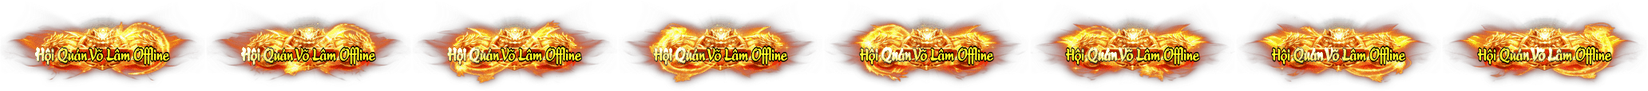
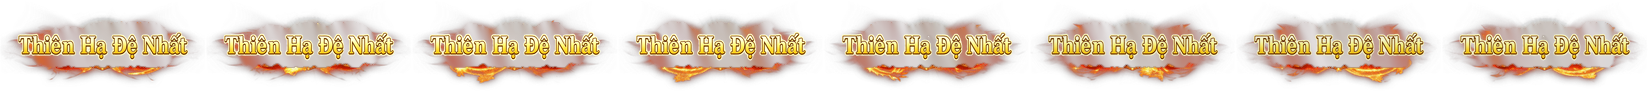
Đổi chữ danh hiệu động thành Thiên Hạ Đệ Nhất.

diff --git a/index.html b/index.html
@@ -9,10 +9,10 @@
 <link rel="manifest" href="manifest.json">
 <title>NamQuoc Idle</title>
 <link rel="stylesheet" href="fonts/ibm-plex-mono.css">
-<link rel="stylesheet" href="style.css?v=251">
-<link rel="stylesheet" href="jx1ui.css?v=251">
-<link rel="stylesheet" href="jx1ui2.css?v=251">
-<link rel="stylesheet" href="ui20.css?v=251">
+<link rel="stylesheet" href="style.css?v=252">
+<link rel="stylesheet" href="jx1ui.css?v=252">
+<link rel="stylesheet" href="jx1ui2.css?v=252">
+<link rel="stylesheet" href="ui20.css?v=252">
 </head>
 <body>
 <div id="bootLoad" aria-live="polite">
@@ -88,69 +88,69 @@
   <div id="modal" class="hidden" role="dialog" aria-modal="true"><div class="mbox" tabindex="-1"><button class="mx" id="mClose">✕</button><div id="mBody"></div></div></div>
   <div id="toast" role="status" aria-live="polite"></div>
 </div>
-<script src="data.js?v=251"></script>
-<script src="setvi.js?v=251"></script>
-<script src="setfix.js?v=251"></script>
-<script src="world.js?v=251"></script>
-<script src="zones2.js?v=251"></script>
-<script src="js/som_hoason_data.js?v=251"></script>
-<script src="js/som_hoason.js?v=251"></script>
-<script src="sound.js?v=251"></script>
-<script src="fx.js?v=251"></script>
-<script src="jmo.js?v=251"></script>
-<script src="jmo2.js?v=251"></script>
-<script src="js/core.js?v=251"></script>
-<script src="js/mapobs.js?v=251"></script>
-<script src="js/stats.js?v=251"></script>
-<script src="js/vocong.js?v=251"></script>
-<script src="js/skillsys.js?v=251"></script>
-<script src="js/kytran.js?v=251"></script>
-<script src="js/loot.js?v=251"></script>
-<script src="rdata.js?v=251"></script>
-<script src="js/sets.js?v=251"></script>
-<script src="js/recipes.js?v=251"></script>
-<script src="js/combat.js?v=251"></script>
-<script src="js/field.js?v=251"></script>
-<script src="js/ride.js?v=251"></script>
-<script src="js/save.js?v=251"></script>
-<script src="js/render.js?v=251"></script>
-<script src="js/som_anim.js?v=251"></script>
-<script src="js/jxmis.js?v=251"></script>
-<script src="jxstate.js?v=251"></script>
-<script src="fx2.js?v=251"></script>
-<script src="fx3.js?v=251"></script>
-<script src="js/skillfx.js?v=251"></script>
-<script src="js/look.js?v=251"></script>
-<script src="js/jxparts.js?v=251"></script>
-<script src="js/audio.js?v=251"></script>
-<script src="js/ui.js?v=251"></script>
-<script src="js/control.js?v=251"></script>
-<script src="js/shop.js?v=251"></script>
-<script src="js/potsel.js?v=251"></script>
-<script src="js/rewards.js?v=251"></script>
-<script src="js/title.js?v=251"></script>
-<script src="js/records.js?v=251"></script>
-<script src="js/horse.js?v=251"></script>
-<script src="js/thanma.js?v=251"></script>
-<script src="js/dungeon.js?v=251"></script>
-<script src="js/giangho.js?v=251"></script>
-<script src="js/forge.js?v=251"></script>
-<script src="js/epdo.js?v=251"></script>
-<script src="js/thuyen.js?v=251"></script>
-<script src="js/mode.js?v=251"></script>
-<script src="js/tabs2.js?v=251"></script>
-<script src="js/auto.js?v=251"></script>
-<script src="js/guide.js?v=251"></script>
-<script src="js/stash.js?v=251"></script>
-<script src="js/donkho.js?v=251"></script>
-<script src="js/name.js?v=251"></script>
-<script src="js/chatcfg.js?v=251"></script>
-<script src="js/chat.js?v=251"></script>
-<script src="js/net.js?v=251"></script>
-<script src="js/mp.js?v=251"></script>
-<script src="js/ui20.js?v=251"></script>
-<script src="js/ui20win.js?v=251"></script>
-<script src="js/admin.js?v=251"></script>
-<script src="js/main.js?v=251"></script>
+<script src="data.js?v=252"></script>
+<script src="setvi.js?v=252"></script>
+<script src="setfix.js?v=252"></script>
+<script src="world.js?v=252"></script>
+<script src="zones2.js?v=252"></script>
+<script src="js/som_hoason_data.js?v=252"></script>
+<script src="js/som_hoason.js?v=252"></script>
+<script src="sound.js?v=252"></script>
+<script src="fx.js?v=252"></script>
+<script src="jmo.js?v=252"></script>
+<script src="jmo2.js?v=252"></script>
+<script src="js/core.js?v=252"></script>
+<script src="js/mapobs.js?v=252"></script>
+<script src="js/stats.js?v=252"></script>
+<script src="js/vocong.js?v=252"></script>
+<script src="js/skillsys.js?v=252"></script>
+<script src="js/kytran.js?v=252"></script>
+<script src="js/loot.js?v=252"></script>
+<script src="rdata.js?v=252"></script>
+<script src="js/sets.js?v=252"></script>
+<script src="js/recipes.js?v=252"></script>
+<script src="js/combat.js?v=252"></script>
+<script src="js/field.js?v=252"></script>
+<script src="js/ride.js?v=252"></script>
+<script src="js/save.js?v=252"></script>
+<script src="js/render.js?v=252"></script>
+<script src="js/som_anim.js?v=252"></script>
+<script src="js/jxmis.js?v=252"></script>
+<script src="jxstate.js?v=252"></script>
+<script src="fx2.js?v=252"></script>
+<script src="fx3.js?v=252"></script>
+<script src="js/skillfx.js?v=252"></script>
+<script src="js/look.js?v=252"></script>
+<script src="js/jxparts.js?v=252"></script>
+<script src="js/audio.js?v=252"></script>
+<script src="js/ui.js?v=252"></script>
+<script src="js/control.js?v=252"></script>
+<script src="js/shop.js?v=252"></script>
+<script src="js/potsel.js?v=252"></script>
+<script src="js/rewards.js?v=252"></script>
+<script src="js/title.js?v=252"></script>
+<script src="js/records.js?v=252"></script>
+<script src="js/horse.js?v=252"></script>
+<script src="js/thanma.js?v=252"></script>
+<script src="js/dungeon.js?v=252"></script>
+<script src="js/giangho.js?v=252"></script>
+<script src="js/forge.js?v=252"></script>
+<script src="js/epdo.js?v=252"></script>
+<script src="js/thuyen.js?v=252"></script>
+<script src="js/mode.js?v=252"></script>
+<script src="js/tabs2.js?v=252"></script>
+<script src="js/auto.js?v=252"></script>
+<script src="js/guide.js?v=252"></script>
+<script src="js/stash.js?v=252"></script>
+<script src="js/donkho.js?v=252"></script>
+<script src="js/name.js?v=252"></script>
+<script src="js/chatcfg.js?v=252"></script>
+<script src="js/chat.js?v=252"></script>
+<script src="js/net.js?v=252"></script>
+<script src="js/mp.js?v=252"></script>
+<script src="js/ui20.js?v=252"></script>
+<script src="js/ui20win.js?v=252"></script>
+<script src="js/admin.js?v=252"></script>
+<script src="js/main.js?v=252"></script>
 </body>
 </html>

diff --git a/sw.js b/sw.js
@@ -1,7 +1,7 @@
 // Ma nguon (js/css/html): mang truoc, cache du phong (luon lay ban moi, choi offline khi mat mang).
 // Hinh / am thanh / font (nang, it doi): lay ngay tu cache, dong thoi tai lai ngam de cap nhat (stale-while-revalidate).
 // Cache hinh giu qua cac ban cap nhat -> khong phai tai lai ~200 MB ban do / sprite moi lan doi phien ban.
-const C = 'jxidle-v251', IMG = 'jxidle-img-251';
+const C = 'jxidle-v252', IMG = 'jxidle-img-252';
 const ASSET = /\.(png|jpe?g|webp|gif|mp3|ogg|wav|m4a|woff2?|ttf)$/i;
 self.addEventListener('install', e => self.skipWaiting());
 self.addEventListener('activate', e => e.waitUntil(caches.keys().then(ks => Promise.all(ks.filter(k => k !== C && k !== IMG).map(k => caches.delete(k)))).then(() => self.clients.claim())));
